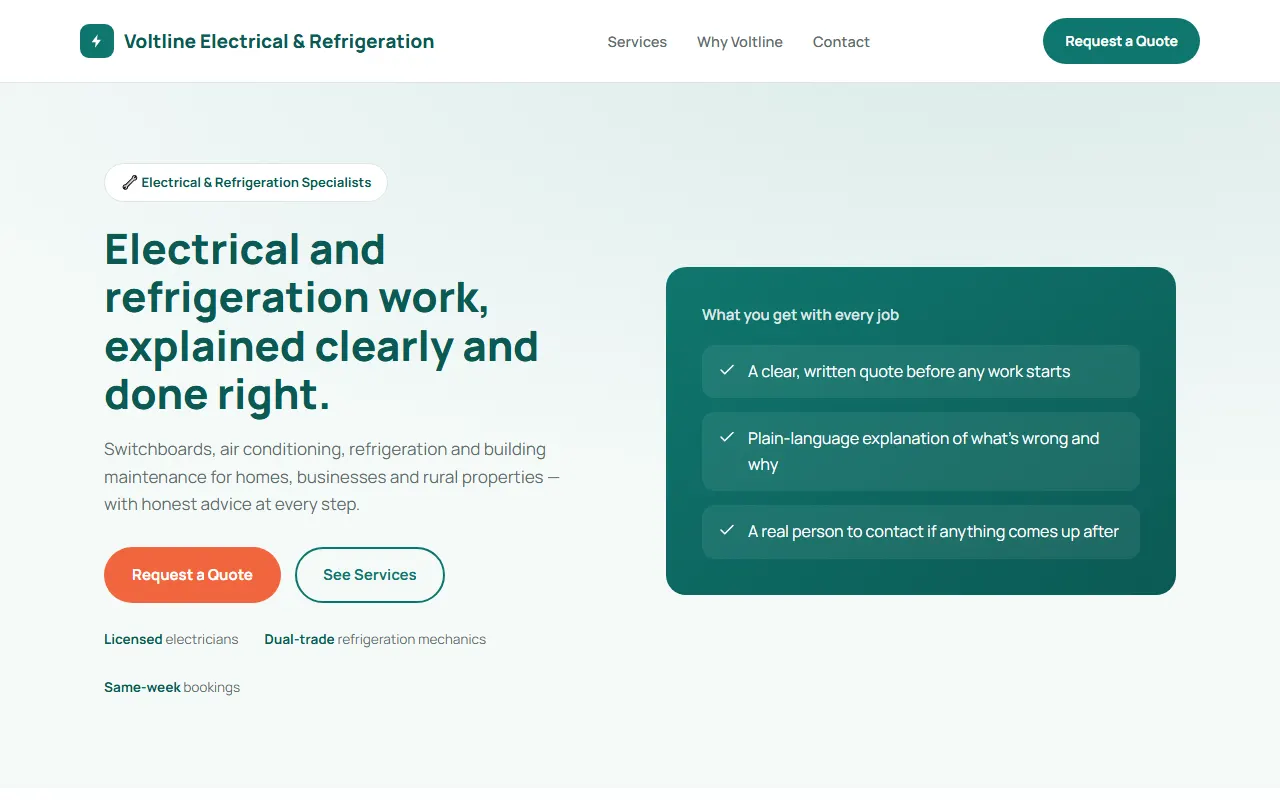
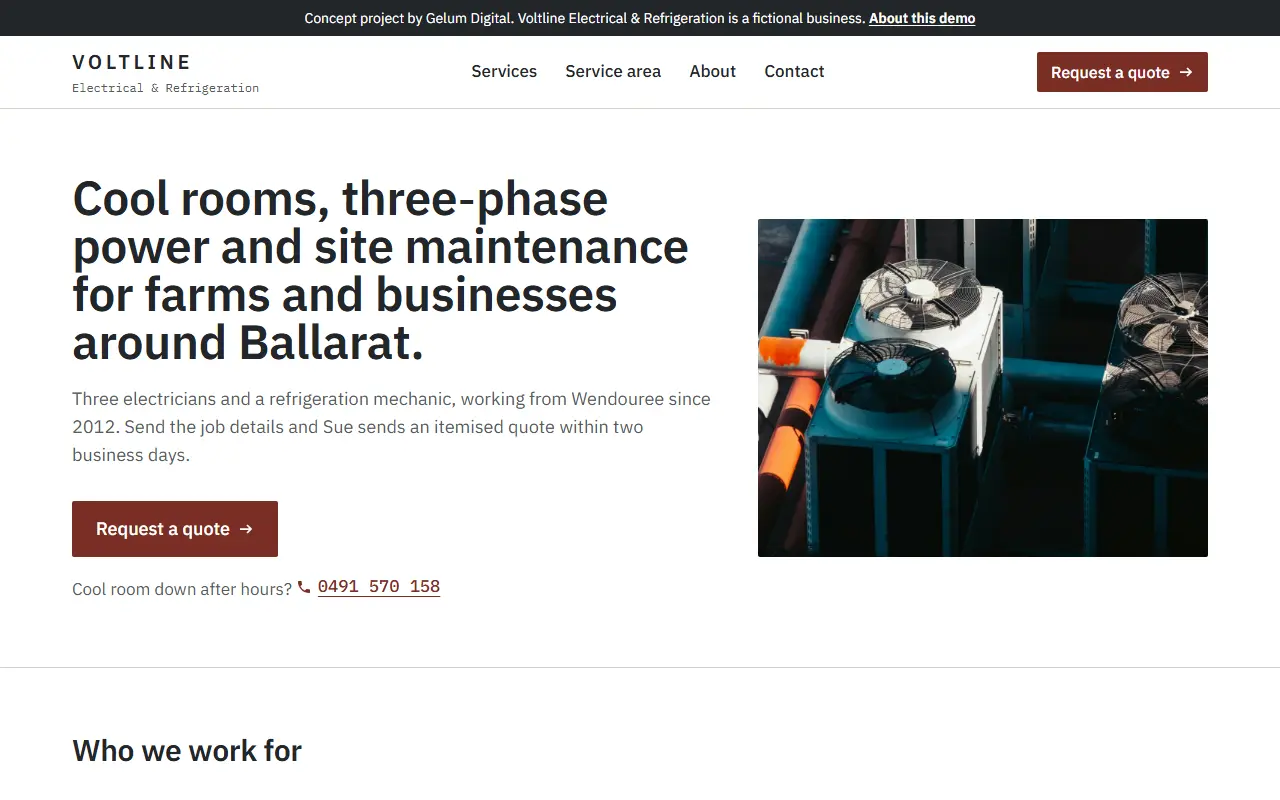
Point the Voltline card at the rebuilt demo
New subdomain, category, Next.js stack, new screenshot, approved
description and the PageSpeed mobile scores measured on 2026-11-01.

diff --git a/src/content/projects.ts b/src/content/projects.ts
@@ -28,12 +28,12 @@ export const projects: Project[] = [
   {
     slug: 'voltline-electrical',
     name: 'Voltline Electrical & Refrigeration',
-    category: 'Commercial and rural electrical',
+    category: 'Commercial electrical and refrigeration',
     description:
-      'Service site for homes, businesses and rural properties, organised around clear service lines.',
-    stack: ['HTML', 'CSS', 'JavaScript'],
-    demoUrl: 'https://ballaratelectric.gelumdigital.online/',
+      'Six-page site for a fictional Ballarat contractor serving farms and businesses: published travel costs, starting prices and a guided quote form.',
+    stack: ['Next.js', 'TypeScript', 'Tailwind CSS'],
+    demoUrl: 'https://voltline.gelumdigital.online/',
     image: { src: '/work/voltline-electrical.webp', width: 1280, height: 800 },
-    lighthouse: { performance: 90, accessibility: 90, measured: '2026-10-20' },
+    lighthouse: { performance: 98, accessibility: 100, measured: '2026-11-01' },
   },
 ];
